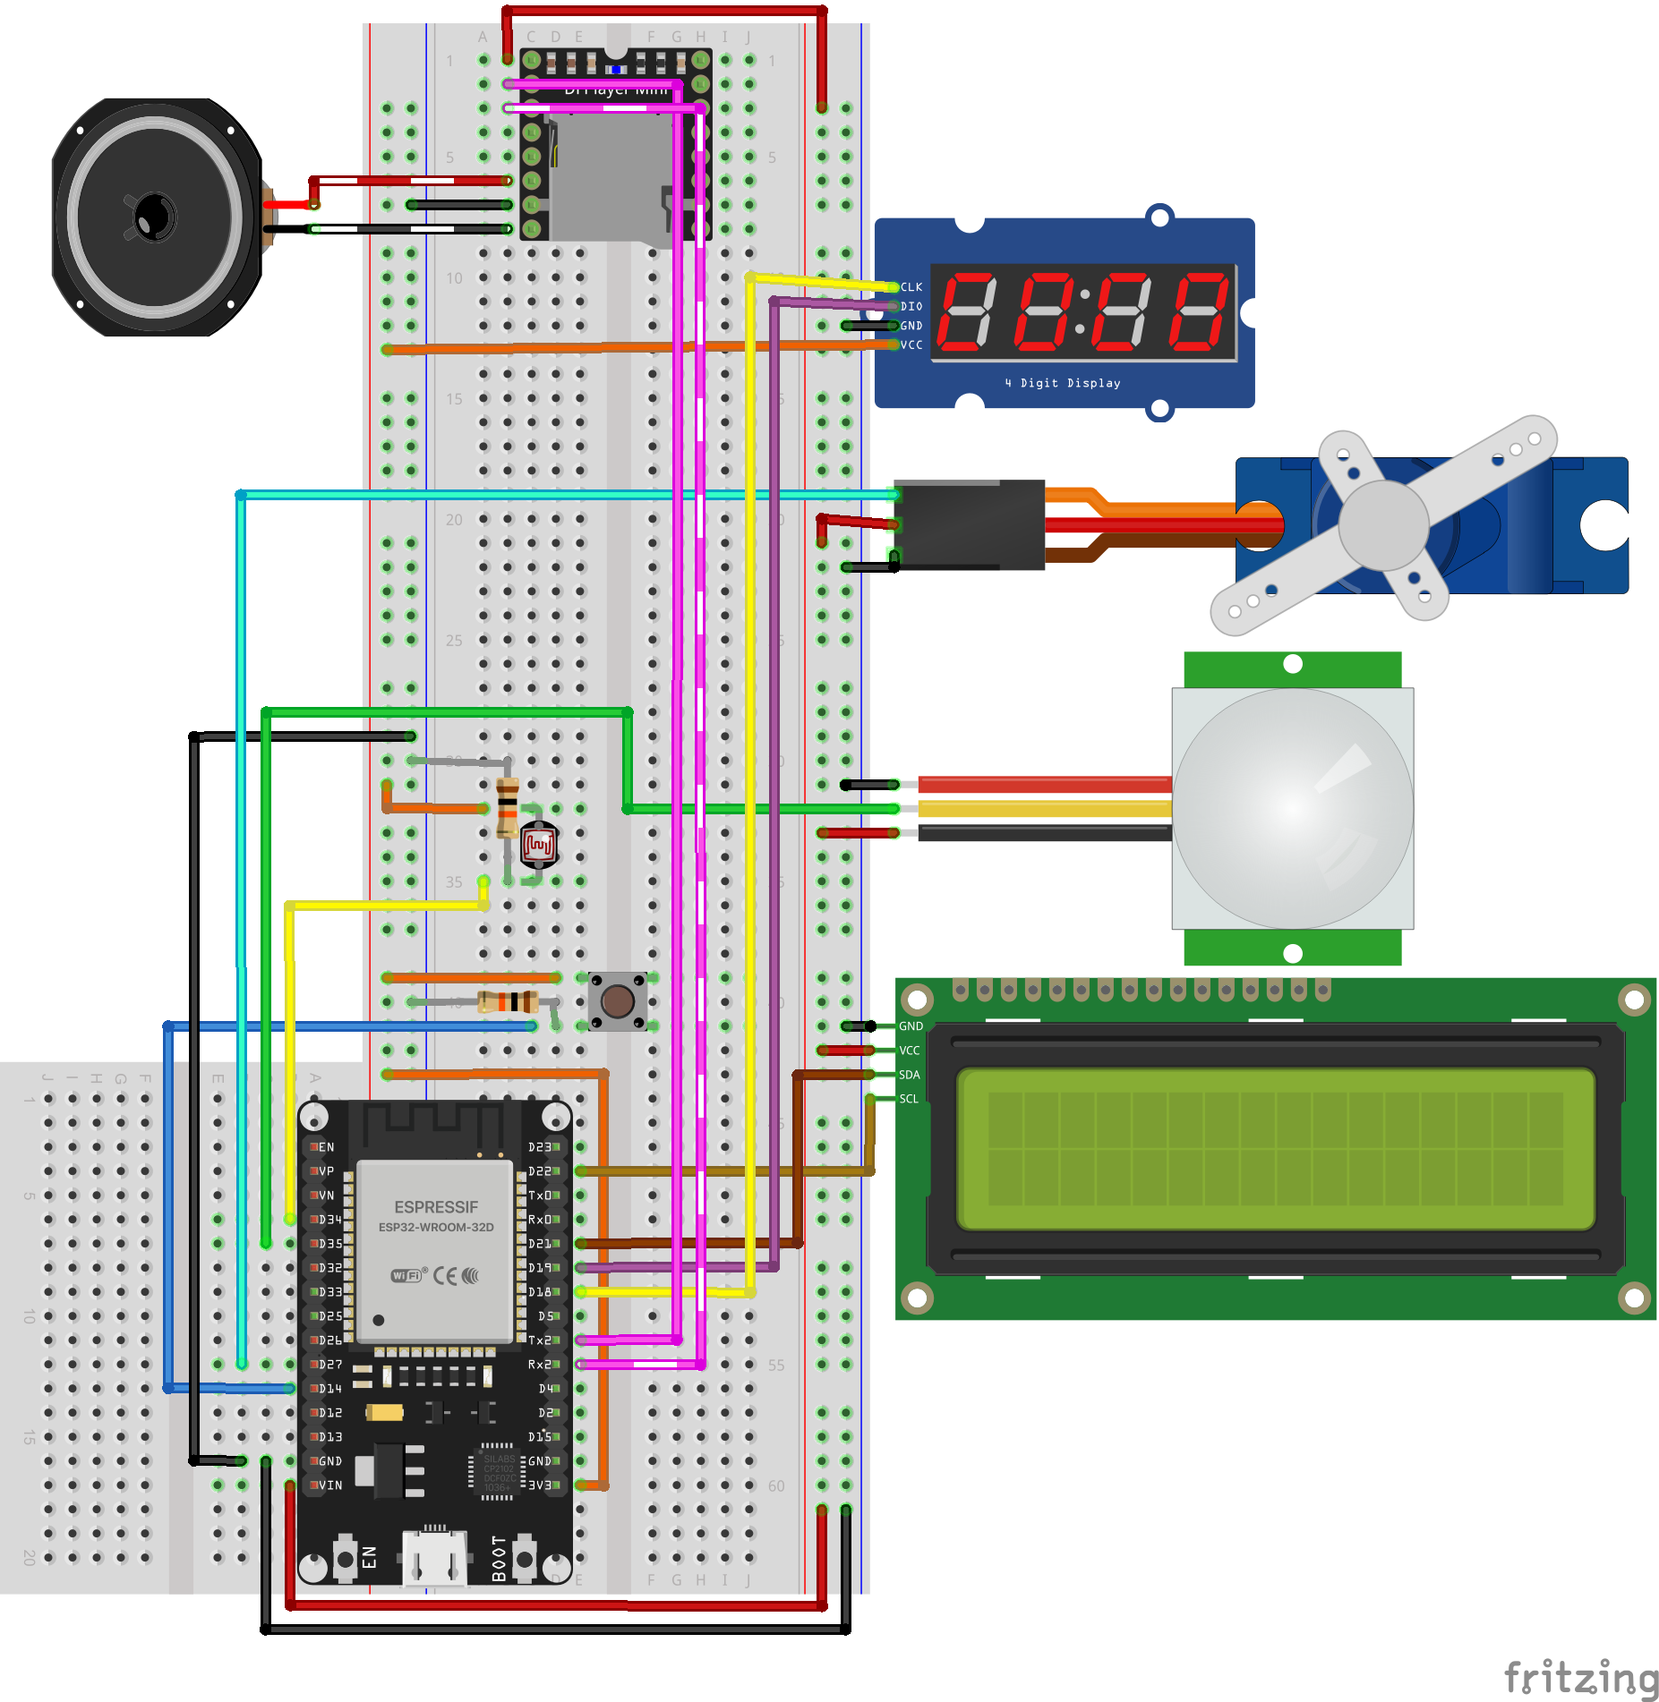
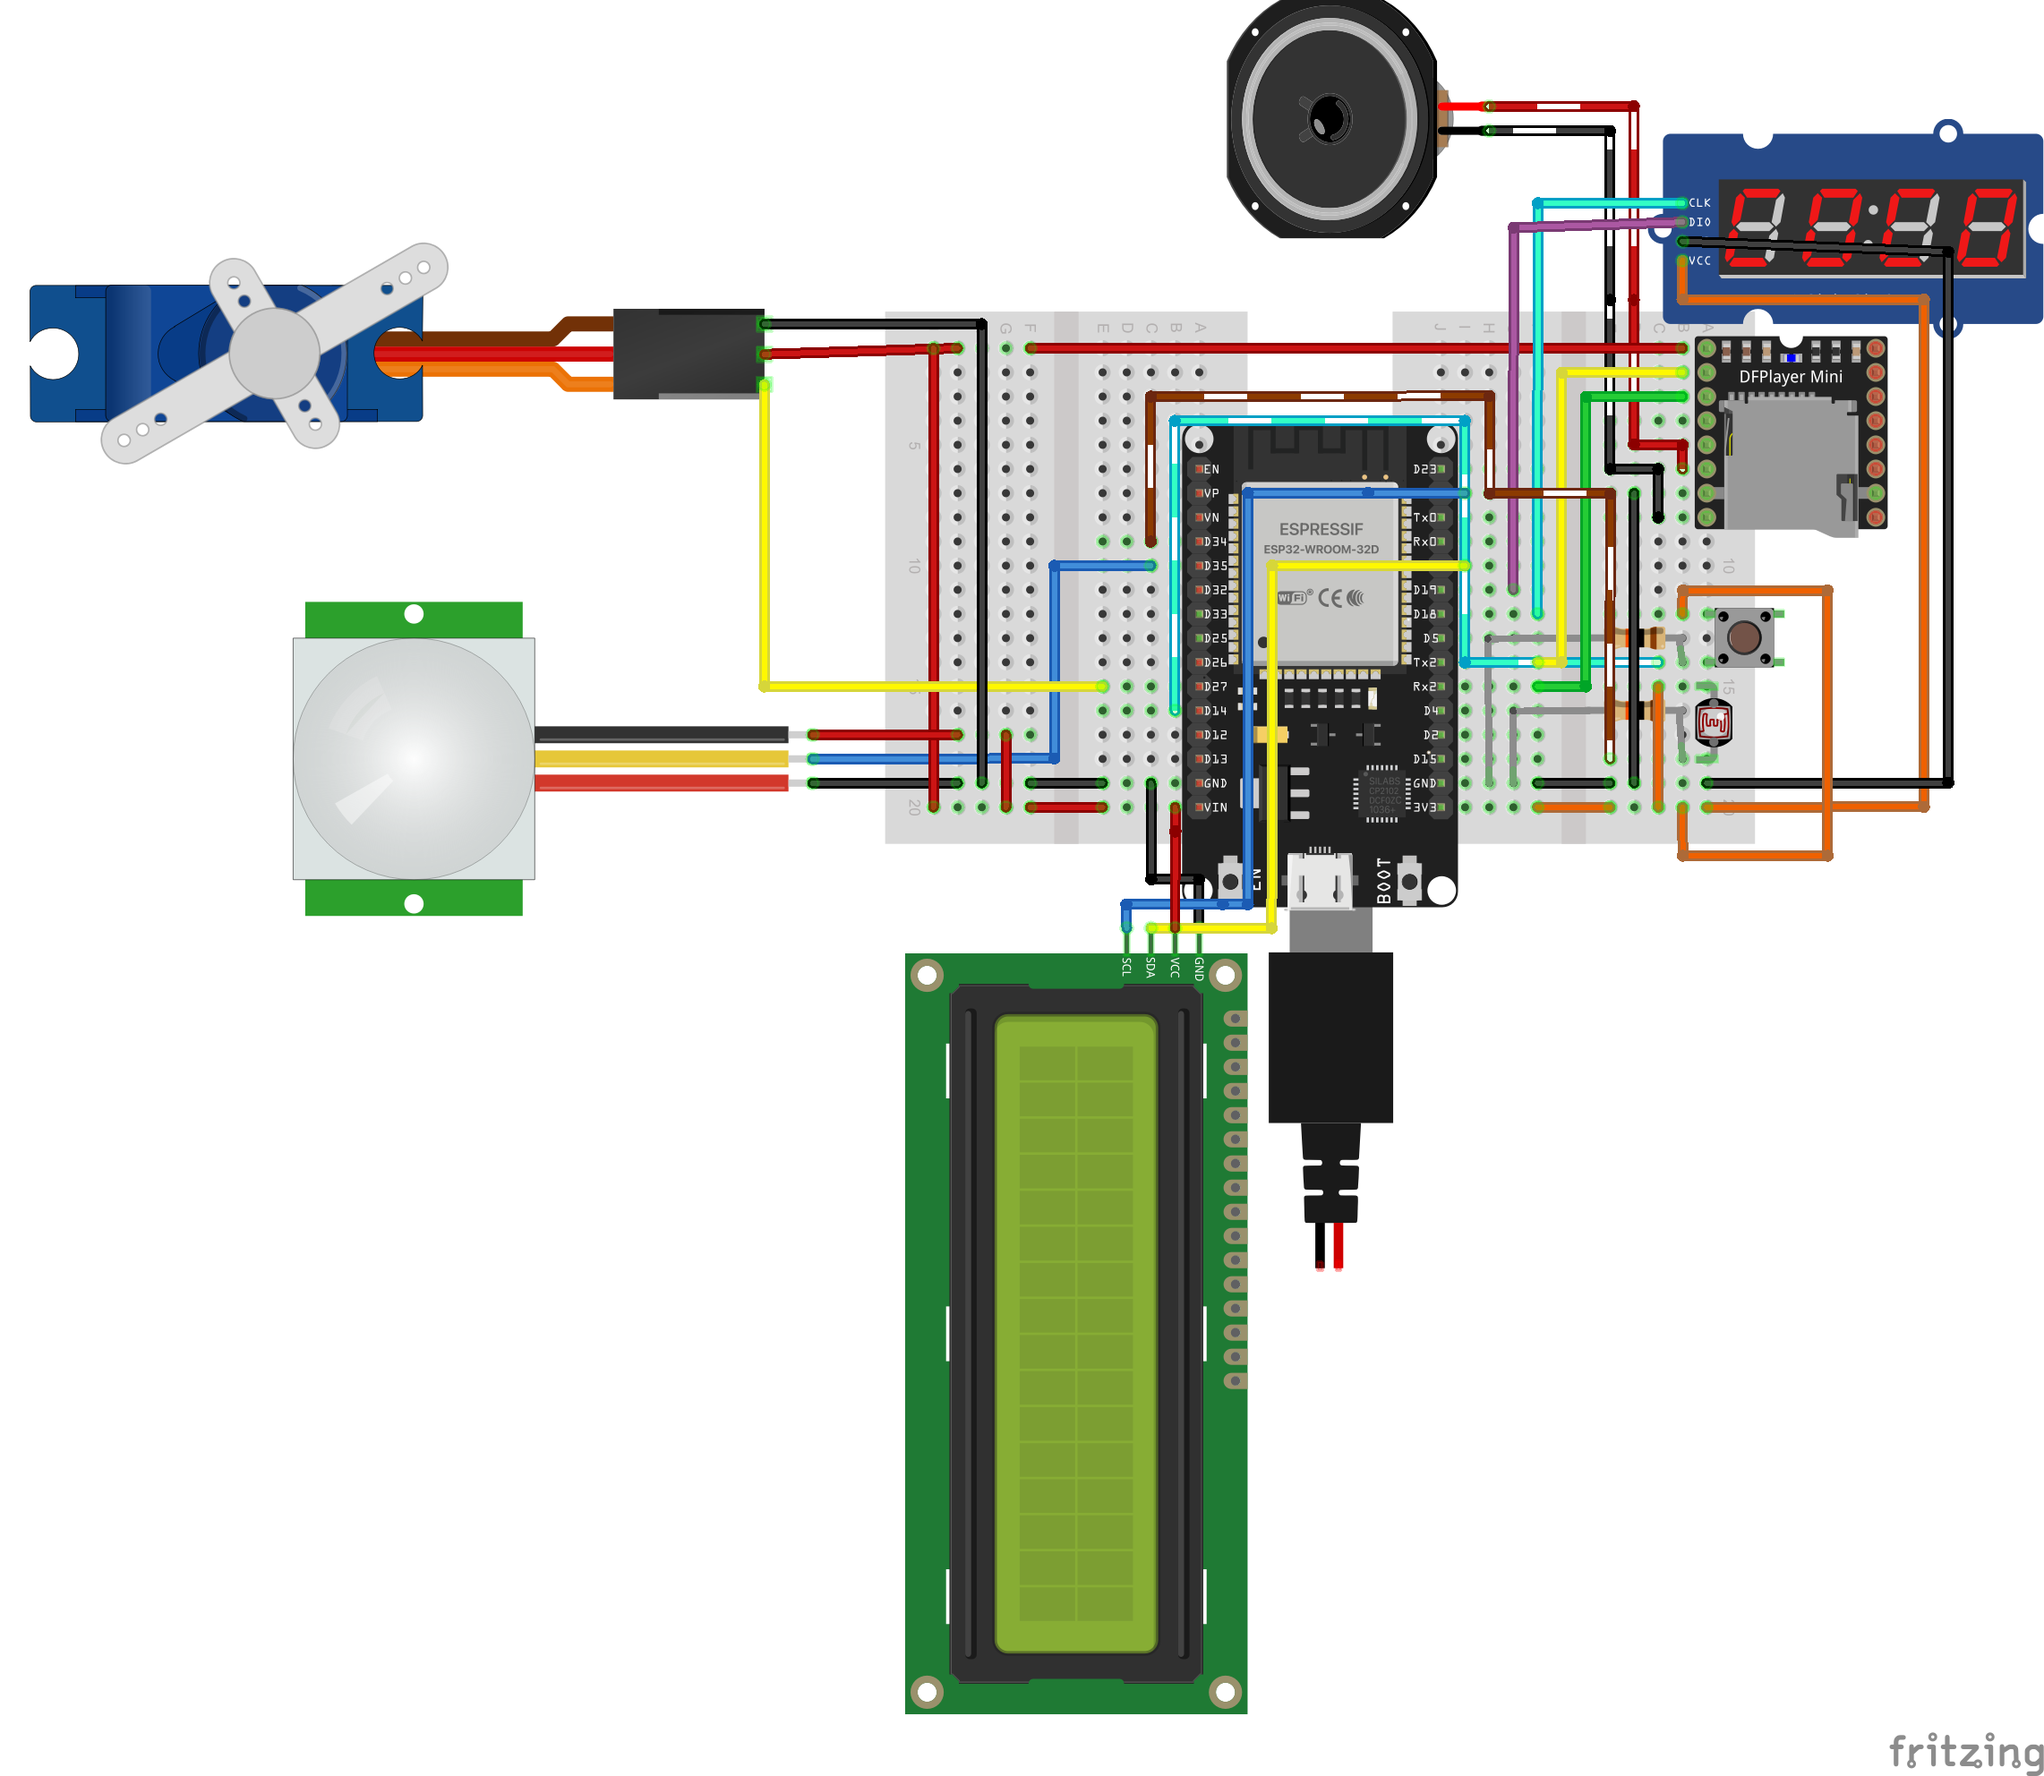
TD

diff --git a/docs/embedded/technical_documentation.md b/docs/embedded/technical_documentation.md
@@ -4,6 +4,8 @@ Your Wiring Diagram, Bill of Materials, ... everything about how you built your 
 
 ## **Wiring Diagram**
 
+This Fritzing diagram shows the wiring of the ESP32-based Smart Calendar system. It includes the connection of several hardware components: an I2C LCD, a 7-segment display (TM1637), a DFPlayer Mini audio module, a servo motor, a PIR sensor, a brightness sensor (LDR), and a push-button. The aim is to visualize the project's physical architecture in order to facilitate assembly.
+
 ![Menu](Embedded_device.png)
 
 ---
@@ -50,14 +52,6 @@ Connected to PIN D27
 
 VCC : 5 V
 
-__Oled Display :__
-
-Connected to PIN A5 **SCL**
-
-Connected to PIN A4 **SDA**
-
-VCC : 5 V
-
 __LCD Screen :__ 
 
 Connected to PIN D22 **SCL**
@@ -86,6 +80,10 @@ Connected to PIN SPK_2 **on DF Player mini**
 
 ## **Bill of Materials**
 
-| Part #    | Manufacturer | Description       | Quantity | Price (incl. VAT) | Subtotal (incl. VAT) | Example url         |
-|-----------|--------------|-------------------|----------|-------------------|----------------------|--------------------|
-| ABC   | Example Inc. | Exemple    | ?        | ? €             | ? €                | example.com/abc123 |
+This table lists all the components required to build the ESP32-based Smart Calendar System. Each item includes a description, the quantity used in the project, the estimated price (including VAT), and a link to an example supplier. These components provide the system's main functions: display, sensor reading, network communication and user interaction.
+
+## 🧾 Bill of Materials
+
+| Part #      | Manufacturer | Description                                              | Quantity | Price (incl. VAT) | Subtotal (incl. VAT) | Example url                                                                                                                                       | Extra Info                                  |
+|-------------|--------------|----------------------------------------------------------|----------|-------------------|----------------------|---------------------------------------------------------------------------------------------------------------------------------------------------|---------------------------------------------|
+| ESP32-DEV-CP2102   | Espressif    | ESP32 WiFi and Bluetooth Dev Board (CP2102, 30 pins)     | 1        | 9.95 €            | 9.95 €               | [Tinytronics](https://www.tinytronics.nl/en/development-boards/microcontroller-boards/with-wi-fi/esp32-wifi-and-bluetooth-board-cp2102) | USB to UART: CP2102, Dual-core MCU, 30 GPIO |

diff --git a/docs/embedded/code.md b/docs/embedded/code.md
@@ -6,4 +6,4 @@ This is not a place to put your code, but to describe the code that you have wri
 
 This program, entitled ESP32, controls a connected smart calendar. It uses an LCD screen, a 7-segment display, a servo-motor, a DFPlayer audio module, sensors (button, LDR, PIR), and connects to Wi-Fi to retrieve appointments from an external API. It manages event display, user interaction (button and motion detection), time synchronization via NTP, and an embedded web server for remote interaction.
 
-**Link to the main code on GitLab**: [link](https://gitlab.fdmci.hva.nl/IoT/2024-2025-semester-2/individual-project/buudiizaaduu29/-/blob/main/Victor/Arduino/ESP32/Final/ESP32.ino?ref_type=heads)
+**Link to the main code on GitLab**: [Victor HOEGY](https://gitlab.fdmci.hva.nl/IoT/2024-2025-semester-2/individual-project/buudiizaaduu29/-/blob/main/Victor/Arduino/ESP32/Final/ESP32.ino?ref_type=heads)
